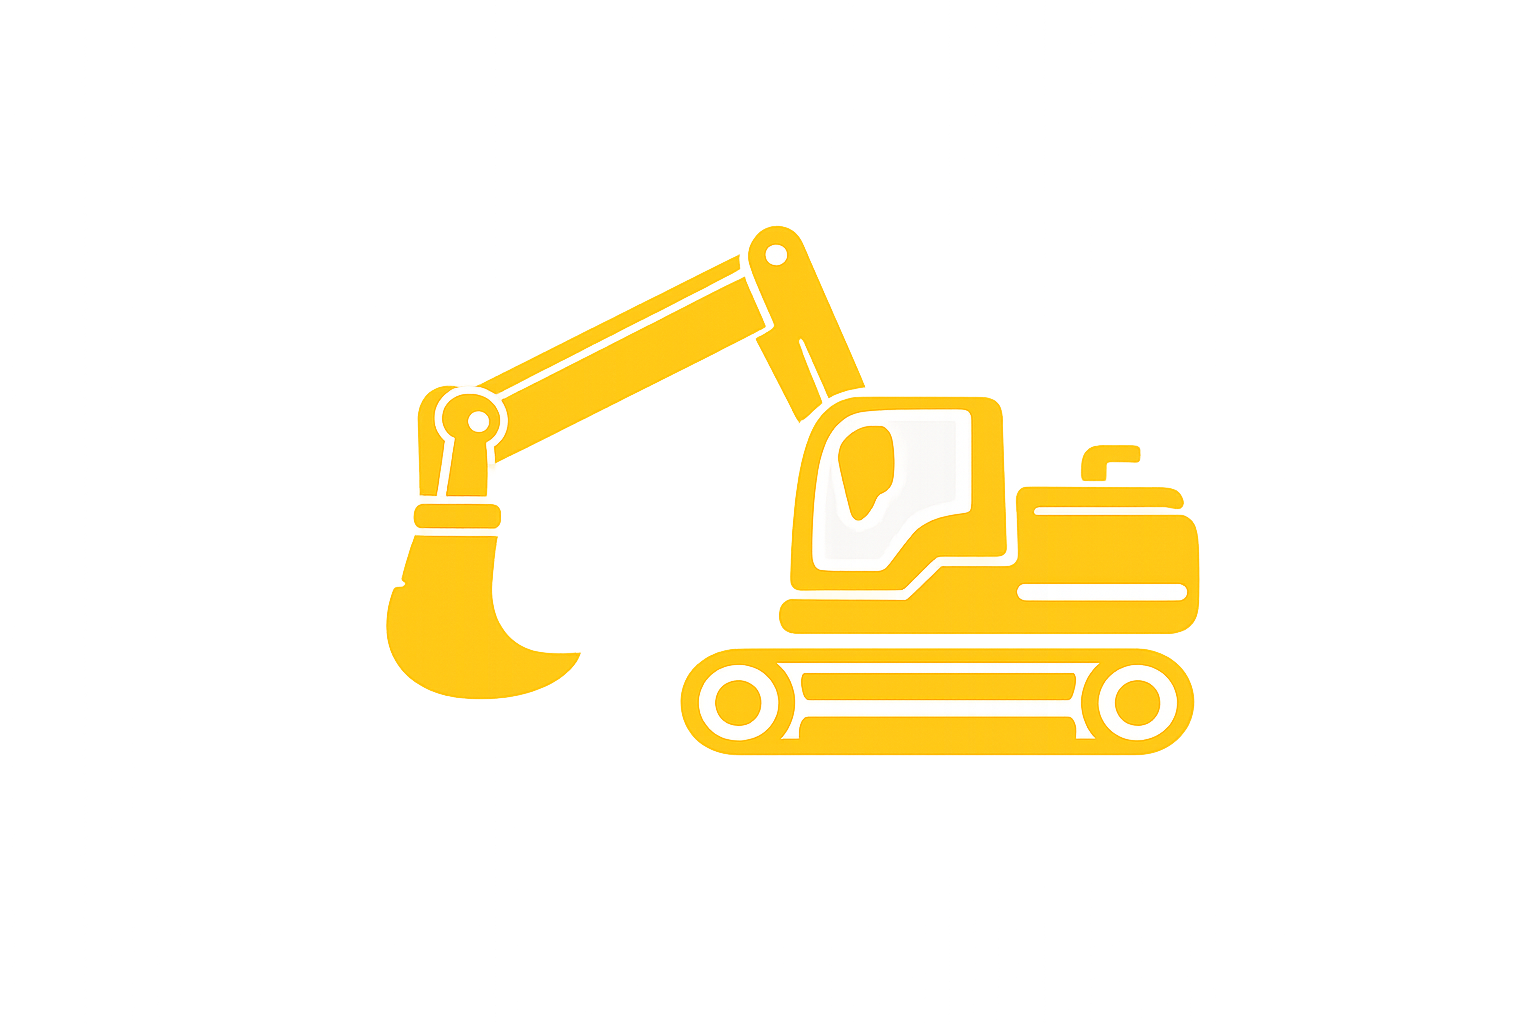
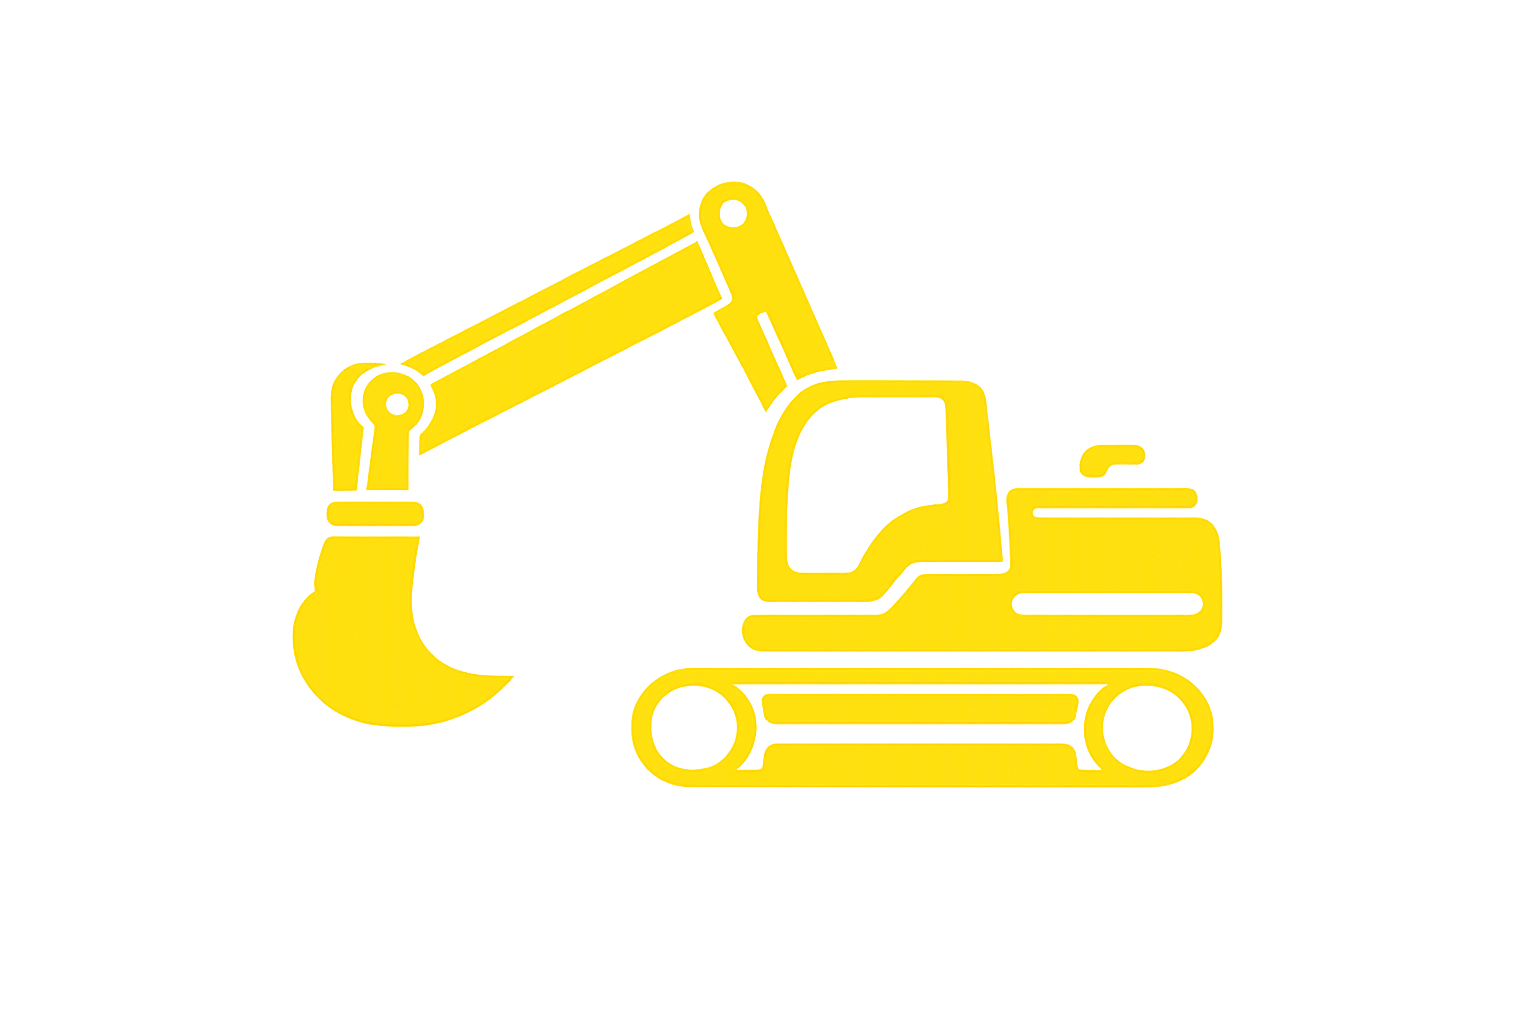
Footer

Changed region(s): [[0.1875, 0.1562, 0.8125, 0.7812]]

diff --git a/src/sections/Footer.tsx b/src/sections/Footer.tsx
@@ -1,0 +1,147 @@
+import type { ReactNode } from "react";
+import { Download, Mail, MapPin, Phone } from "lucide-react";
+import { FaWhatsapp } from "react-icons/fa6";
+import { ActionButton } from "../components/ActionButton";
+import type { Language } from "../data/siteContent";
+import { translations } from "../data/siteContent";
+
+function ContactItem({ icon, label }: { icon: ReactNode; label: ReactNode }) {
+  return (
+    <div className="flex items-start gap-4">
+      <div className="mt-0.5 flex h-12 w-12 shrink-0 items-center justify-center rounded-[16px] border border-white/10 bg-white/3 text-brand.yellow shadow-[0_2px_0_rgba(0,0,0,0.12)]">
+        {icon}
+      </div>
+      <p className="max-w-[18rem] text-[15px] font-bold leading-6 text-white/92 sm:text-[16px]">
+        {label}
+      </p>
+    </div>
+  );
+}
+
+type FooterProps = {
+  language: Language;
+};
+
+export function Footer({ language }: FooterProps) {
+  const content = translations[language].footer;
+
+  return (
+    <footer className="border-t border-white/10 bg-[#0c0c0c] text-white">
+      <div className="mx-auto max-w-[1280px] px-4 py-10 md:px-6 lg:px-8 lg:py-12">
+        <div className="space-y-8">
+          <div className="grid gap-6 lg:grid-cols-[1.1fr_0.95fr] lg:items-center lg:gap-10">
+            <div className="max-w-[28rem]">
+              <h2 className="whitespace-nowrap text-[22px] font-black uppercase leading-[0.92] tracking-[-0.07em] text-white sm:text-[26px] lg:text-[34px]">
+                {content.title}
+              </h2>
+              <p
+                className="mt-3 whitespace-nowrap text-[11px] font-extrabold uppercase leading-tight tracking-[-0.03em] sm:text-[13px] lg:text-[15px]"
+                style={{ color: "#F2C200" }}
+              >
+                {content.subtitle}
+              </p>
+            </div>
+
+            <div className="grid gap-4 sm:grid-cols-2 lg:justify-self-end xl:min-w-[34rem]">
+              <ActionButton
+                icon={<FaWhatsapp className="h-4 w-4 text-white" />}
+                label={content.whatsapp}
+                tone="success"
+                className="h-11 px-4 text-[12px] sm:h-12 sm:min-w-[170px] sm:px-5 sm:text-[13px]"
+                labelClassName="text-[12px] sm:text-[13px]"
+              />
+
+              <ActionButton
+                icon={
+                  <Phone
+                    size={18}
+                    strokeWidth={2.4}
+                    className="text-brand.black"
+                  />
+                }
+                label={content.call}
+                tone="warning"
+                className="h-11 px-4 text-[12px] sm:h-12 sm:min-w-[170px] sm:px-5 sm:text-[13px]"
+                labelClassName="text-[12px] sm:text-[13px]"
+              />
+            </div>
+          </div>
+
+          <div className="grid gap-6 sm:grid-cols-2 lg:grid-cols-3 lg:pt-2">
+            <ContactItem
+              icon={
+                <MapPin
+                  className="h-6 w-6 text-brand.yellow"
+                  strokeWidth={2.4}
+                />
+              }
+              label={
+                <>
+                  <span>{content.address}</span>
+                  <br />
+                  <span>{content.street}</span>
+                </>
+              }
+            />
+            <ContactItem
+              icon={
+                <Mail className="h-6 w-6 text-brand.yellow" strokeWidth={2.4} />
+              }
+              label={content.email}
+            />
+            <ContactItem
+              icon={
+                <Phone
+                  className="h-6 w-6 text-brand.yellow"
+                  strokeWidth={2.4}
+                />
+              }
+              label={
+                <>
+                  <span>{content.phone1}</span>
+                  <br />
+                  <span>{content.phone2}</span>
+                </>
+              }
+            />
+          </div>
+        </div>
+
+        <div className="mt-10 border-t border-white/10 pt-6">
+          <div className="grid gap-5 lg:grid-cols-[1fr_auto_1fr] lg:items-center">
+            <div className="flex items-center gap-4">
+              <div className="flex h-14 w-14 shrink-0 items-center justify-center rounded-[18px] bg-brand.yellow text-brand.black shadow-[0_2px_0_rgba(0,0,0,0.12)]">
+                <span className="text-[24px] font-black leading-none">S</span>
+              </div>
+              <div>
+                <div className="text-[18px] font-black uppercase tracking-[0.16em] text-white">
+                  СПЕЦТЕХНИКА
+                </div>
+                <div
+                  className="mt-1 text-[11px] font-semibold uppercase tracking-[0.24em]"
+                  style={{ color: "#F2C200" }}
+                >
+                  {content.logoSubtitle}
+                </div>
+              </div>
+            </div>
+
+            <button
+              type="button"
+              className="inline-flex min-h-[56px] items-center justify-center gap-4 rounded-[16px] border border-white/12 bg-white/5 px-6 text-[15px] font-bold uppercase tracking-[0.06em] text-white transition-colors duration-200 hover:bg-white/10"
+            >
+              <Download className="h-5 w-5" />
+              <span>{content.pdf}</span>
+            </button>
+
+            <div className="flex items-center justify-start gap-4 lg:justify-end">
+              <p className="text-[14px] font-semibold text-white/72">
+                {content.copyright}
+              </p>
+            </div>
+          </div>
+        </div>
+      </div>
+    </footer>
+  );
+}

diff --git a/src/data/siteContent.ts b/src/data/siteContent.ts
@@ -35,10 +35,24 @@ export const translations = {
     process: {
       title: 'КАК МЫ РАБОТАЕМ',
     },
+    footer: {
+      title: 'НУЖНА ТЕХНИКА?',
+      subtitle: 'СВЯЖИТЕСЬ С НАМИ ПРЯМО СЕЙЧАС',
+      whatsapp: 'WHATSAPP',
+      call: 'ПОЗВОНИТЬ',
+      address: 'Казахстан, г. Астана',
+      street: 'ул. Бекетая 5/1',
+      email: 'youremail@gmail.com',
+      phone1: '+7 (700) 000-00-00',
+      phone2: '+7 (707) 000-00-00',
+      logoSubtitle: 'АРЕНДА И УСЛУГИ',
+      pdf: 'СКАЧАТЬ ПРАЙС',
+      copyright: '© 2026 Спецтехника',
+    },
   },
   kz: {
     header: {
-      logoTitle: 'АРНАУЛЫ ТЕХНИКА',
+      logoTitle: 'СПЕЦТЕХНИКА',
       logoSubtitle: 'ЖАЛҒА БЕРУ ЖӘНЕ ҚЫЗМЕТ',
       whatsapp: 'WHATSAPP',
       call: 'ҚОҢЫРАУ ШАЛУ',
@@ -67,6 +81,20 @@ export const translations = {
     },
     process: {
       title: 'БІЗ ҚАЛАЙ ЖҰМЫС ІСТЕЙМІЗ',
+    },
+    footer: {
+      title: 'ТЕХНИКА ҚАЖЕТ ПЕ?',
+      subtitle: 'БІЗБЕН ДӘЛ ҚАЗІР ХАБАРЛАСЫҢЫЗ',
+      whatsapp: 'WHATSAPP',
+      call: 'ҚОҢЫРАУ ШАЛУ',
+      address: 'Қазақстан, Астана қаласы',
+      street: 'Бекетая көшесі, 5/1',
+      email: 'youremail@gmail.com',
+      phone1: '+7 (700) 000-00-00',
+      phone2: '+7 (707) 000-00-00',
+      logoSubtitle: 'ЖАЛҒА БЕРУ ЖӘНЕ ҚЫЗМЕТ',
+      pdf: 'ПРАЙС ЖҮКТЕУ',
+      copyright: '© 2026 Спецтехника',
     },
   },
 } as const;

diff --git a/src/components/ActionButton.tsx b/src/components/ActionButton.tsx
@@ -5,6 +5,7 @@ type ActionButtonProps = {
   label: string;
   tone: 'success' | 'warning';
   className?: string;
+  labelClassName?: string;
 };
 
 const toneClasses: Record<ActionButtonProps['tone'], string> = {
@@ -12,14 +13,14 @@ const toneClasses: Record<ActionButtonProps['tone'], string> = {
   warning: 'bg-brand-yellow text-brand-black hover:bg-[#e0b200]',
 };
 
-export function ActionButton({ icon: Icon, label, tone, className = '' }: ActionButtonProps) {
+export function ActionButton({ icon: Icon, label, tone, className = '', labelClassName = '' }: ActionButtonProps) {
   return (
     <button
       type="button"
       className={`inline-flex w-full items-center justify-center gap-3 rounded-xl px-5 text-[15px] font-extrabold uppercase tracking-[0.08em] transition-colors duration-200 sm:w-auto ${toneClasses[tone]} ${className}`}
     >
       <span className="inline-flex items-center justify-center">{Icon}</span>
-      <span>{label}</span>
+      <span className={labelClassName}>{label}</span>
     </button>
   );
 }

diff --git a/src/App.tsx b/src/App.tsx
@@ -6,6 +6,7 @@ import { CoverageMap } from './sections/CoverageMap';
 import { EquipmentCatalog } from './sections/EquipmentCatalog';
 import { WhyChooseUs } from './sections/WhyChooseUs';
 import { HowWeWork } from './sections/HowWeWork';
+import { Footer } from './sections/Footer';
 
 export default function App() {
   const [language, setLanguage] = useState<Language>('ru');
@@ -19,6 +20,7 @@ export default function App() {
         <EquipmentCatalog language={language} />
         <WhyChooseUs language={language} />
         <HowWeWork language={language} />
+        <Footer language={language} />
       </main>
     </div>
   );
